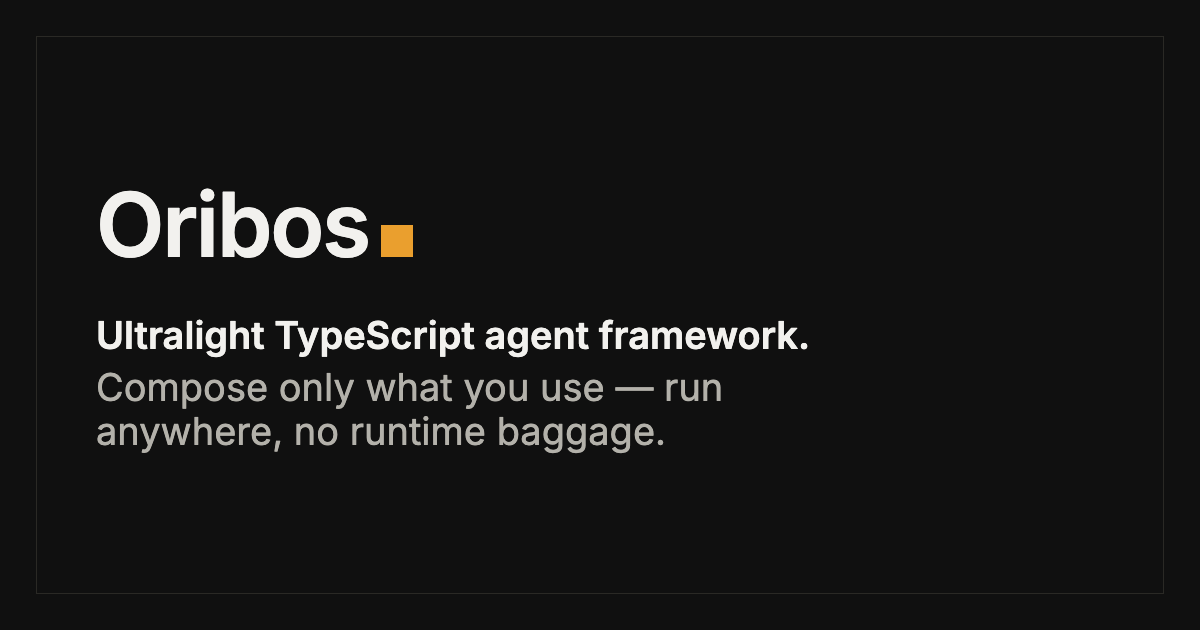
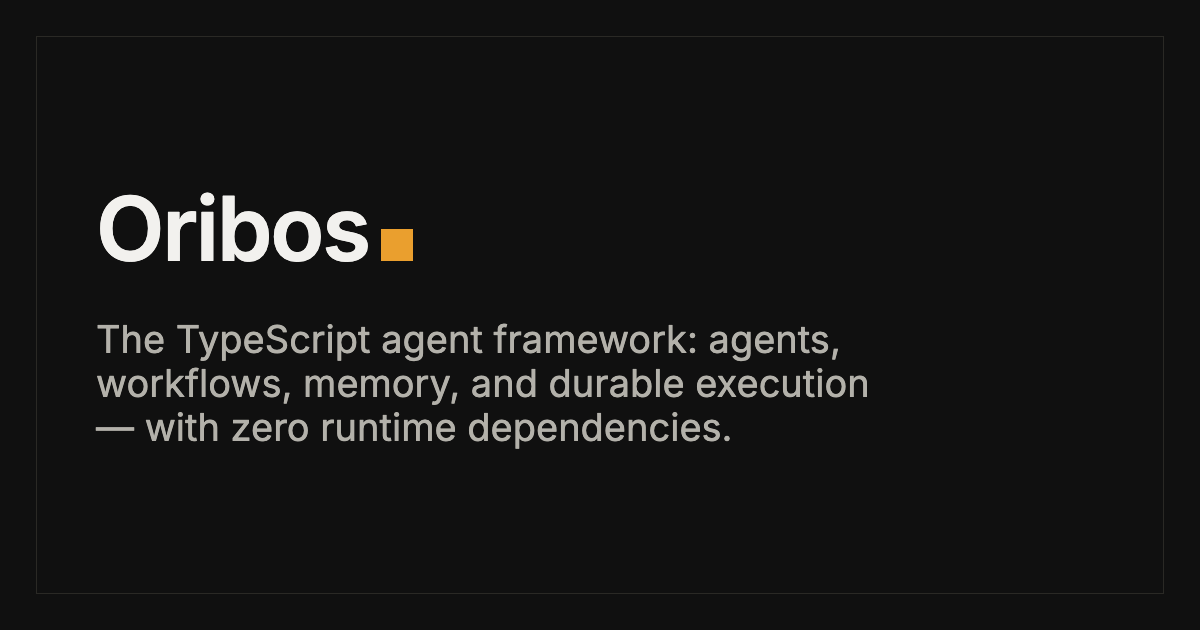
positioning: 退役 ultralight 定位——换叙事为「全功能 TypeScript agent framework」(能力枚举示广度+zero runtime dependencies 事实担「不臃肿」),对标 Mastra 品类语言而全站不点名;锁稿九处换新(H1/final CTA=Build AI agents that run for days., hero sub 三动词句式, title/meta 删形容词换能力枚举, tagline 单句化, FAQ#1 轻量双义定义句退役改写为零依赖+无自有运行时两事实, Resources 卡宾语换 zero runtime

Changed region(s): [[0.0617, 0.5127, 0.74, 0.7238], [0.0925, 0.3016, 0.3392, 0.4222]]

diff --git a/src/lib/provenance-rules.ts b/src/lib/provenance-rules.ts
@@ -11,6 +11,11 @@
  * - §3.6 adds only the Resources card descriptions; §4.2 adds the `releases` link, removing
  *   nothing.
  *
+ * On top of the revamp sanctions sits the repositioning ruling (SPEC §2.3/§3.1 改判): the
+ * `ultralight` positioning is retired, so the hero H1/sub, the final-CTA heading, the
+ * definition FAQ answer, the Agents claim, the use-case intro sub and the public tagline in
+ * `brand.ts` move to the category framing — each held to the exact keys it rewrites.
+ *
  * Any other difference from the skeleton — a re-worded carried sentence, a dropped FAQ, an
  * edited legal page — is a finding. `scripts/check-provenance.mjs` diffs the working tree
  * against the skeleton ref with git and prints the findings; the matching rules live here.
@@ -51,11 +56,16 @@ export const sanctions: readonly Sanction[] = [
 	{ path: /^src\/content\/facts\//, status: 'A', reason: 'the architecture-facts collection is new (SPEC-revamp §3.2)' },
 	{ path: /^src\/content\/social-proof\//, status: 'D', reason: 'the social-proof collection is abolished (SPEC-revamp §3.2)' },
 	{ path: /^src\/content\/faq\/on-npm\.json$/, status: 'M', keys: ['answer'], reason: 'only the npm answer flips to the published state (SPEC-revamp §4.4)' },
+	{ path: /^src\/content\/faq\/what-is-oribos\.json$/, status: 'M', keys: ['answer'], reason: 'the definition answer drops the retired `ultralight` framing (SPEC §3.7 改判)' },
+	{ path: /^src\/content\/features\/agents\.json$/, status: 'M', keys: ['claim'], reason: 'the Agents claim says `compact`, not `minimal` (SPEC §3.2 改判)' },
 	{ path: /^src\/content\/features\/mcp\.json$/, status: 'M', keys: ['files'], reason: 'only the MCP snippet\'s version literal becomes the {version} token (SPEC-revamp §4.6)' },
-	{ path: /^src\/content\/final-cta\/default\.json$/, status: 'M', keys: ['sub'], reason: 'only the final-CTA sub is replaced (SPEC-revamp §4.5)' },
+	{ path: /^src\/content\/final-cta\/default\.json$/, status: 'M', keys: ['sub', 'heading'], reason: 'the sub flips to the published state (SPEC-revamp §4.5); the heading follows the new hero H1 (SPEC §3.1 改判)' },
+	{ path: /^src\/content\/hero\/home\.json$/, status: 'M', keys: ['h1', 'sub'], reason: 'the hero H1/sub move to the `run for days` positioning (SPEC §3.1 改判)' },
+	{ path: /^src\/content\/use-case-intro\/default\.json$/, status: 'M', keys: ['sub'], reason: 'the intro sub drops `small` from the framework line (SPEC §3.5 改判)' },
 	{ path: /^src\/content\/keyword-pages\/[^/]+\.json$/, status: 'M', keys: ['intro', 'faq'], reason: 'only the hero intro and the §5.3 FAQ row are added (SPEC-revamp §5.2/§5.3)' },
 	{ path: /^src\/content\/resources\/default\.json$/, status: 'M', keys: ['links'], reason: 'only the card descriptions are added (SPEC-revamp §3.6)' },
 	{ path: /^src\/lib\/links\.ts$/, status: 'M', additionsOnly: true, additionsMatch: /releases|§4\.2/, reason: 'the releases constant is added, nothing removed (SPEC-revamp §4.2)' },
+	{ path: /^src\/lib\/brand\.ts$/, status: 'M', reason: 'the public tagline moves to the category positioning (SPEC §2.3 改判)' },
 	{ path: /^src\/lib\/version\.ts$/, status: 'A', reason: 'the version constant is new (SPEC-revamp §4.6)' },
 ];
 

diff --git a/src/lib/copy-rules.ts b/src/lib/copy-rules.ts
@@ -1,8 +1,9 @@
 /**
  * The red-line scan (SPEC §8.8 ④, §9.2) over the *built* site: names the site never mentions,
- * counting-style figures, the retired `MIT` license word, the retired `@balsa/*` and `@balsats/*`
- * scopes, the retired repository / domain names, the retired `coming soon` release status
- * (SPEC-revamp §4: one published state), and the RAG / evals line keyword pages must not cross.
+ * counting-style figures, the retired `ultralight` / `lightweight` positioning, the retired `MIT`
+ * license word, the retired `@balsa/*` and `@balsats/*` scopes, the retired repository / domain
+ * names, the retired `coming soon` release status (SPEC-revamp §4: one published state), and the
+ * RAG / evals line keyword pages must not cross.
  * Install-class commands are not a red line any more — SPEC-revamp §4.6 holds them to two slots,
  * and `src/lib/install-rules.ts` is that gate.
  *
@@ -43,6 +44,11 @@ export const copyRules: readonly CopyRule[] = [
 		id: 'competitor-name',
 		reason: 'the site never names a competitor or the reference site (SPEC §9.2)',
 		pattern: /\b(?:mastra|langchain|langgraph|llamaindex|llama[ _-]?index|crewai|autogen|semantic[ -]?kernel|haystack)\b/i,
+	},
+	{
+		id: 'retired-positioning',
+		reason: 'the `ultralight` / `lightweight` positioning is retired — the category is the TypeScript agent framework (SPEC §2.3)',
+		pattern: /\b(?:ultralight|lightweight)\b/i,
 	},
 	{
 		id: 'counting-figure',

diff --git a/src/lib/hero-rules.ts b/src/lib/hero-rules.ts
@@ -13,9 +13,9 @@ import { windowBarMeta } from './trace-meta.ts';
 export type HeroPage = { path: string; html: string };
 
 /** SPEC §3.1 【终稿·勿改】: the H1 and the sub. */
-export const heroH1 = 'Build ultralight AI agents.';
+export const heroH1 = 'Build AI agents that run for days.';
 export const heroSub =
-	'Build, compose, and ship agents with zero runtime dependencies — Oribos, the ultralight TypeScript agent framework.';
+	'Build, observe, and ship durable agents — Oribos, the TypeScript agent framework with zero runtime dependencies.';
 /** SPEC-revamp §4.1: the hero's secondary CTA is a `GitHub` text link; the v1 copy button is retired. */
 export const ctaGithub = 'GitHub';
 export const retiredHeroCta = 'Copy quick start';
@@ -83,7 +83,7 @@ export const traceSummary = "chunk.type === 'text-delta' — every span from the
 export const heroWindowBarMeta = windowBarMeta(traceMeta);
 
 /** SPEC-revamp §4.5: the shared final CTA — the H2 from the v1 spec, the new published-state sub. */
-export const finalCtaHeading = 'Build ultralight AI agents.';
+export const finalCtaHeading = 'Build AI agents that run for days.';
 export const finalCtaSub =
 	'Copy the agent prompt, paste it into your coding agent, and add a working Oribos agent to the app you already run.';
 

diff --git a/src/lib/copy-rules.test.ts b/src/lib/copy-rules.test.ts
@@ -15,12 +15,18 @@ test('competitor and reference-site names are found, case-insensitively', () => 
 	assert.ok(rules('<p>LangChain users will feel at home.</p>').length > 0);
 });
 
+test('the retired `ultralight` / `lightweight` positioning is caught, case-insensitively', () => {
+	assert.ok(rules('<p>Build ultralight AI agents.</p>').length > 0);
+	assert.ok(rules('<p>Lightweight in two precise senses.</p>').length > 0);
+	assert.deepEqual(rules('<p>The TypeScript agent framework with zero runtime dependencies.</p>'), []);
+});
+
 test('counting-style figures are caught; the locked phrases of the spec are not', () => {
 	for (const figure of ['five fields', 'five core subsystems', '12 packages', '3 tests', '500 KB', '2 million users']) {
 		assert.ok(rules(`<p>${figure}</p>`).length > 0, `expected a finding for \`${figure}\``);
 	}
 	assert.deepEqual(rules('<p>An agent is a handful of fields.</p>'), []);
-	assert.deepEqual(rules('<p>One small framework, three shapes.</p>'), []);
+	assert.deepEqual(rules('<p>One framework, three shapes.</p>'), []);
 	assert.deepEqual(rules('<p>trace · gpt-4o-mini · 2 steps · 1.62s</p>'), []);
 	assert.deepEqual(rules('<p>0 runtime dependencies</p>'), []);
 });

diff --git a/src/lib/shell-rules.test.ts b/src/lib/shell-rules.test.ts
@@ -50,7 +50,7 @@ const header = `
 const footer = `
 <footer>
 	<a href="/">Oribos</a>
-	<p>Ultralight TypeScript agent framework.<br />Compose only what you use — run anywhere, no runtime baggage.</p>
+	<p>The TypeScript agent framework: agents, workflows, memory, and durable execution — with zero runtime dependencies.</p>
 	<h2>Framework</h2>
 	<a href="/ai-agent-framework/">Agent framework</a>
 	<a href="/ai-agents/">Agents</a>
@@ -117,7 +117,7 @@ test('the dropdown keeps the SPEC order: Items → Docs → GitHub → the versi
 });
 
 test('the footer keeps the four columns in order and the verbatim tagline and legal line', () => {
-	const withoutTagline = head.replace('Compose only what you use — run anywhere, no runtime baggage.', 'Compose only what we sell.');
+	const withoutTagline = head.replace('with zero runtime dependencies.', 'with zero compromises.');
 	assert.match(footerIssues(page(withoutTagline))[0]!, /tagline/);
 
 	const withoutLegal = head.replace('© 2026 Oribos · Apache-2.0', '© 2026 Oribos');

diff --git a/src/lib/faq-rules.ts b/src/lib/faq-rules.ts
@@ -29,7 +29,7 @@ export const faqItems: readonly FaqSpecItem[] = [
 	{
 		question: 'What is Oribos?',
 		answer:
-			'Oribos is an ultralight TypeScript agent framework. Its surface is agents, tools, memory, workflows and durable execution, with capability packages you add as you need them. It is lightweight in two precise senses: you compose only what you use, and it asks for no runtime of its own — no database, no queue, no long-running process; it embeds in the app you already run.',
+			'Oribos is a TypeScript agent framework. Its surface is agents, tools, memory, workflows and durable execution, with capability packages you add as you need them. The core carries zero runtime dependencies and asks for no runtime of its own — no database, no queue, no long-running process; it embeds in the app you already run.',
 	},
 	{
 		question: 'Is Oribos on npm yet?',

diff --git a/src/lib/text-page-rules.ts b/src/lib/text-page-rules.ts
@@ -62,7 +62,7 @@ export const lastUpdatedPattern = /^Last updated: [A-Z][a-z]+ \d{1,2}, \d{4}$/;
 export const aboutSpec: AboutPageSpec = {
 	route: '/about/',
 	h1: 'About Oribos',
-	tagline: 'Ultralight TypeScript agent framework. Compose only what you use — run anywhere, no runtime baggage.',
+	tagline: 'The TypeScript agent framework: agents, workflows, memory, and durable execution — with zero runtime dependencies.',
 	storyHeading: 'Our story',
 	story: [
 		'The project exists for one bet — that an agent framework should be a library inside your application, not a platform your application moves into. So every subsystem ships behind its own entry point, the core carries no runtime dependencies, and nothing here needs a database, a queue or a long-running process.',

diff --git a/src/lib/scenario-rules.test.ts b/src/lib/scenario-rules.test.ts
@@ -75,7 +75,7 @@ const page = (entry: UseCasePageSpec = spec, options: { mock?: string } = {}): S
 		</div>
 	</section>
 	<section id="faq" data-faq class="border-t border-line px-6 py-24"><h2>Frequently asked questions</h2></section>
-	<section id="get-started" class="border-t border-line px-6 py-24"><h2>Build ultralight AI agents.</h2></section>
+	<section id="get-started" class="border-t border-line px-6 py-24"><h2>Build AI agents that run for days.</h2></section>
 	<section data-use-case-back class="border-t border-line py-12">
 		<div class="wrap">
 			<a href="${backLinkHref}" class="text-base font-semibold text-acc hover:underline">${backLinkText}</a>

diff --git a/src/lib/use-case-rules.ts b/src/lib/use-case-rules.ts
@@ -29,7 +29,7 @@ export type UseCaseCardSpec = { title: string; claim: string; route: string; moc
 
 /** SPEC §3.5 引言【终稿·勿改】: the section's two lines, as the heading and the line under it. */
 export const useCaseIntroHeading = 'In your product. Around your team. Under your platform.';
-export const useCaseIntroSub = 'One small framework, three shapes — and nothing new to stand up.';
+export const useCaseIntroSub = 'One framework, three shapes — and nothing new to stand up.';
 
 /** SPEC §3.5: the three cards in page order — titles, claims and targets verbatim. */
 export const useCaseCards: readonly UseCaseCardSpec[] = [

diff --git a/src/lib/keyword-rules.test.ts b/src/lib/keyword-rules.test.ts
@@ -60,7 +60,7 @@ const page = (entry: KeywordPageSpec = spec): KeywordPage => ({
 				</div>
 			</div>
 		</section>
-		<section id="get-started" class="border-t border-line px-6 py-20"><h2>Build ultralight AI agents.</h2></section>
+		<section id="get-started" class="border-t border-line px-6 py-20"><h2>Build AI agents that run for days.</h2></section>
 		<section data-keyword-back class="border-t border-line px-6 py-12">
 			<div class="mx-auto max-w-3xl">
 				<a href="${entry.backAnchor}" class="text-base font-semibold text-acc hover:underline">${backLinkText}</a>

diff --git a/src/lib/shell-rules.ts b/src/lib/shell-rules.ts
@@ -30,7 +30,7 @@ export type ShellPage = { path: string; html: string };
 
 /** SPEC §2.3 【终稿·勿改】: the public tagline, footer brand block. */
 export const tagline =
-	'Ultralight TypeScript agent framework. Compose only what you use — run anywhere, no runtime baggage.';
+	'The TypeScript agent framework: agents, workflows, memory, and durable execution — with zero runtime dependencies.';
 /** SPEC §2.3 【终稿·勿改】: a static string, never a build-time year. */
 export const legalLine = '© 2026 Oribos · Apache-2.0';
 

diff --git a/src/lib/asset-rules.test.ts b/src/lib/asset-rules.test.ts
@@ -39,7 +39,7 @@ test('the favicon PNG exports keep their sizes', () => {
 
 test('llms.txt is the page list: verbatim titles with absolute URLs on the one origin', () => {
 	const pages = [
-		{ route: '/', title: 'Oribos — ultralight TypeScript AI agent framework' },
+		{ route: '/', title: 'Oribos — TypeScript AI agent framework' },
 		{ route: '/about/', title: 'About — Oribos' },
 	];
 	const text = `# Oribos\n\n- [${pages[0]!.title}](${origin}/)\n- [${pages[1]!.title}](${origin}/about/)\n`;
